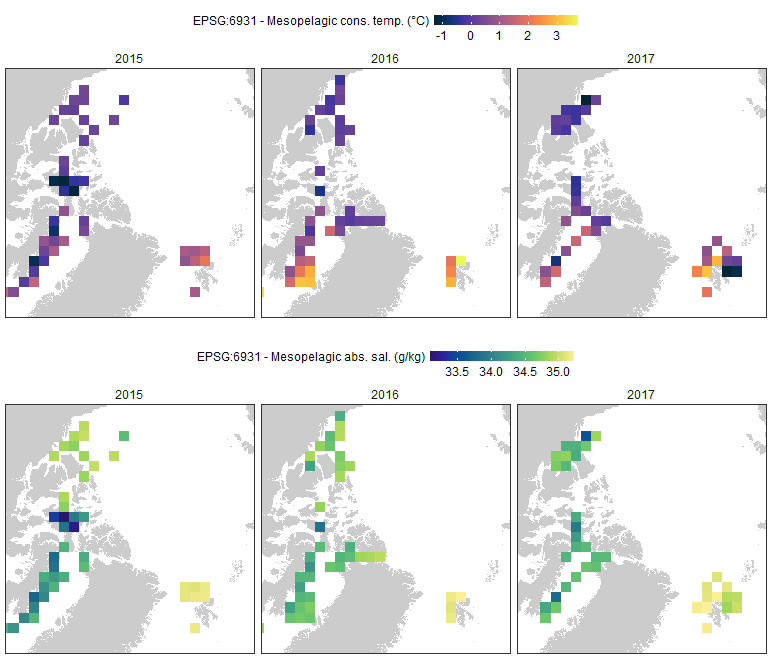
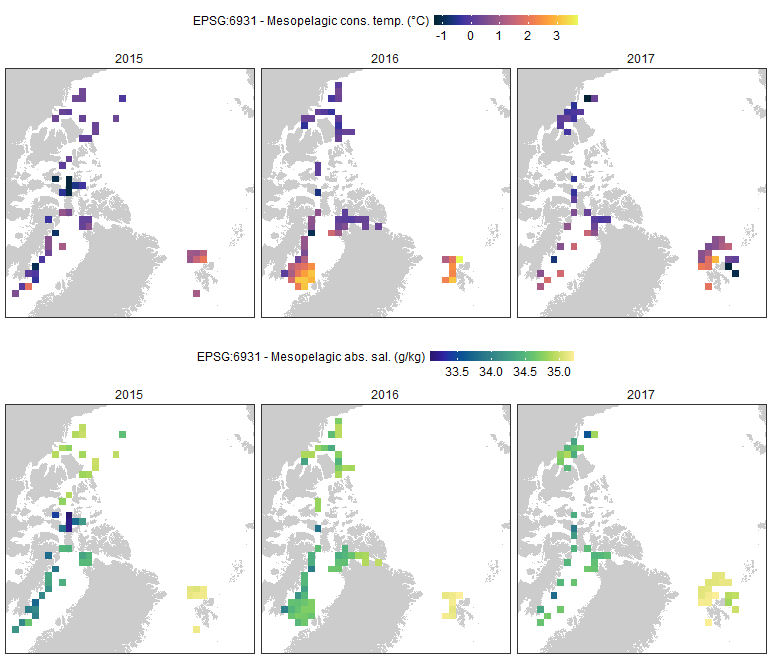
Changed cell resolution to 100 km.

diff --git a/PanArctic_DSL_acoustics.md b/PanArctic_DSL_acoustics.md
@@ -1,7 +1,7 @@
 PanArctic DSL - Acoustic gridding
 ================
 [Pierre Priou](mailto:pierre.priou@mi.mun.ca)
-2022/02/09 at 10:51
+2022/02/09 at 14:01
 
 # Package loading
 
@@ -149,7 +149,7 @@ More info on this projection can be found on the [NSIDC
 website](https://nsidc.org/data/ease/).
 
 ``` r
-cell_res <- 150 # Cell resolution in km
+cell_res <- 100 # Cell resolution in km
 arctic_laea <- raster(extent(-2700, 2700, -2700, 2700), crs = "EPSG:6931") # Seaice projection
 projection(arctic_laea) <- gsub("units=m", "units=km", projection(arctic_laea)) # Convert proj unit from m to km
 res(arctic_laea) <- c(cell_res, cell_res) # Define the 100 km cell resolution
@@ -227,7 +227,7 @@ plot_grid(SA_grid_laea %>% # Map integrated normalized backscatter anomaly
           SA_grid_laea %>% # Map centre of mass
             ggplot() +
             geom_polygon(data = coast_10m_laea, aes(x = xc, y = yc, group = group), fill = "grey80") +
-            geom_tile(aes(x = xc, y = yc, fill = CM)) +
+            geom_tile(aes(x = xc, y = yc, fill = CM), color = "grey30", alpha = 0.8, size = 0.15) +
             scale_fill_viridis_c("EPSG:6931 - Centre of mass (m)", option = "cividis") +
             facet_wrap(~ year, ncol = 3) +
             coord_fixed(xlim = c(-2600, 1100), ylim = c(-1800, 1900), expand = F) + 

diff --git a/PanArctic_DSL_remote_sensing.md b/PanArctic_DSL_remote_sensing.md
@@ -1,7 +1,7 @@
 PanArctic DSL - Remote sensing
 ================
 [Pierre Priou](mailto:pierre.priou@mi.mun.ca)
-2022/02/09 at 11:02
+2022/02/09 at 14:05
 
 # Package loading
 
@@ -212,7 +212,7 @@ website](https://nsidc.org/data/ease/). Because “raw” sea ice data has a
 projection (150 km \* 150 km).
 
 ``` r
-cell_res <- 150 # Cell resolution in km
+cell_res <- 100 # Cell resolution in km
 arctic_laea <- raster(extent(-2700, 2700, -2700, 2700), crs = "EPSG:6931") # Seaice projection
 projection(arctic_laea) <- gsub("units=m", "units=km", projection(arctic_laea)) # Convert proj unit from m to km
 res(arctic_laea) <- c(cell_res, cell_res) # Define the 100 km cell resolution

diff --git a/PanArctic_DSL_CTD.md b/PanArctic_DSL_CTD.md
@@ -1,7 +1,7 @@
 PanArctic DSL - CTD
 ================
 [Pierre Priou](mailto:pierre.priou@mi.mun.ca)
-2022/02/09 at 10:58
+2022/02/09 at 14:03
 
 # Package loading
 
@@ -119,7 +119,7 @@ More info on this projection can be found on the [NSIDC
 website](https://nsidc.org/data/ease/).
 
 ``` r
-cell_res <- 150 # Cell resolution in km
+cell_res <- 100 # Cell resolution in km
 arctic_laea <- raster(extent(-2700, 2700, -2700, 2700), crs = "EPSG:6931") # Seaice projection
 projection(arctic_laea) <- gsub("units=m", "units=km", projection(arctic_laea)) # Convert proj unit from m to km
 res(arctic_laea) <- c(cell_res, cell_res) # Define the 100 km cell resolution
